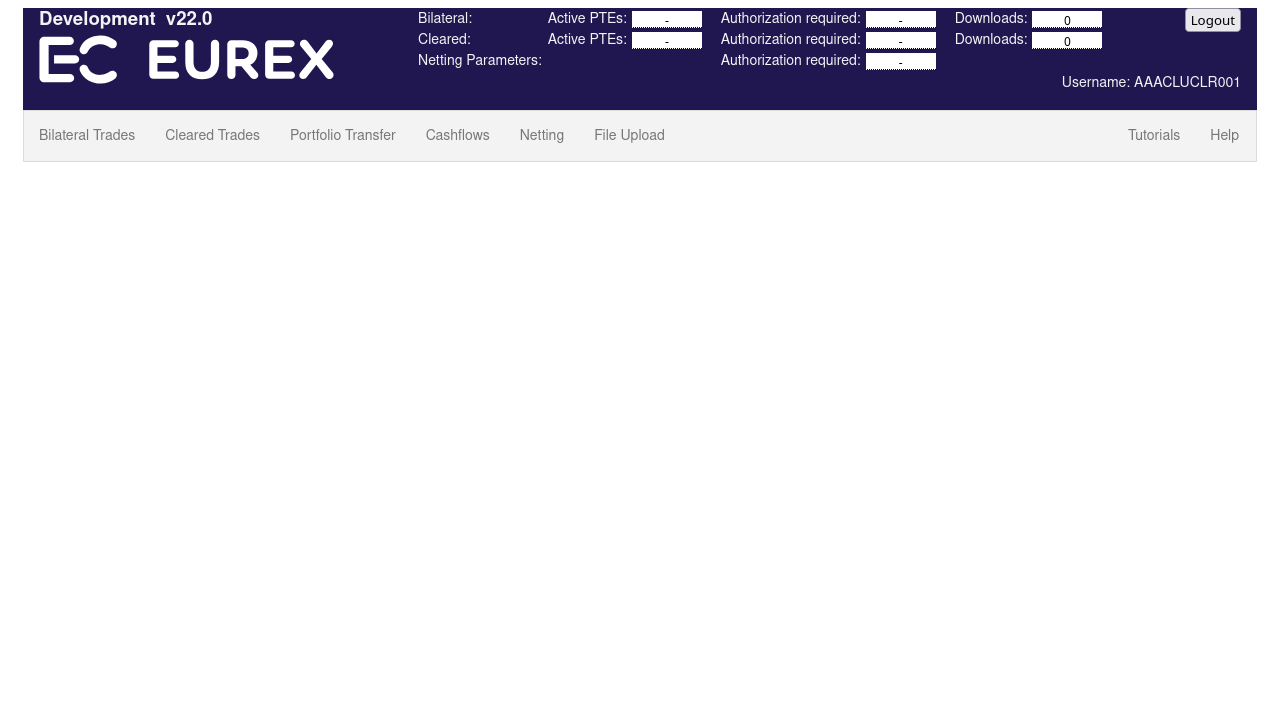
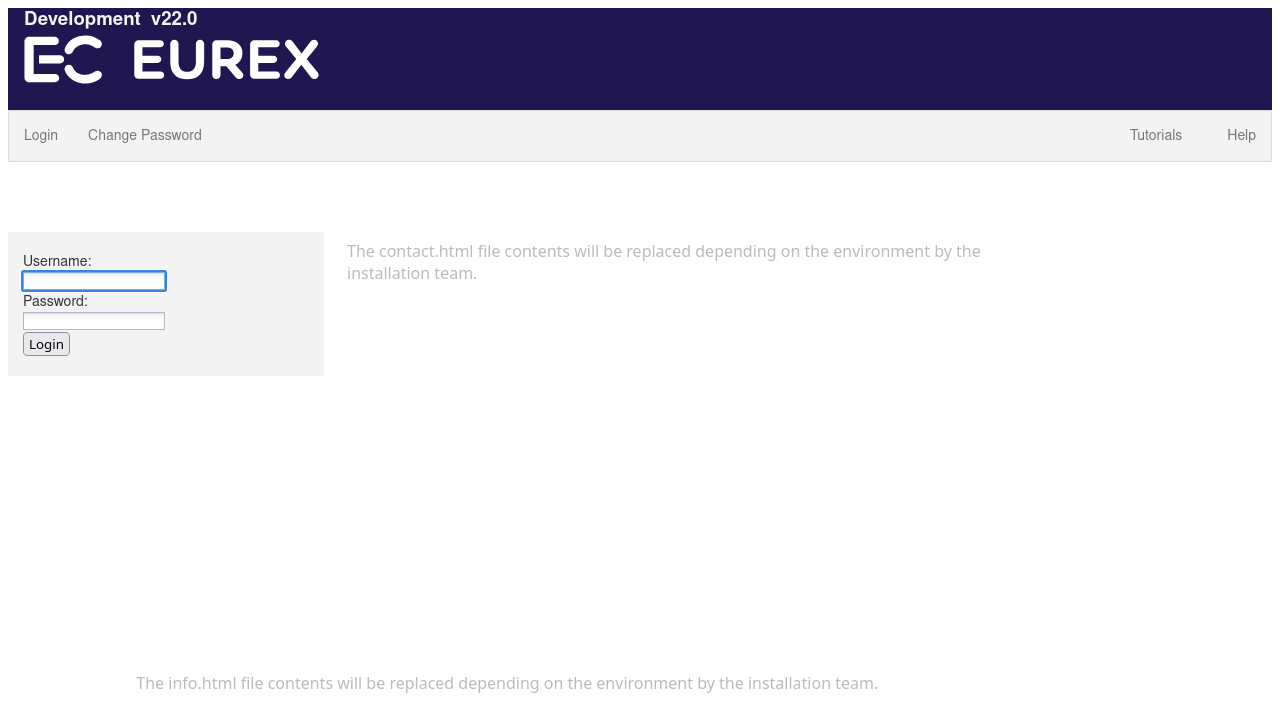
Extract reusable logout component

diff --git a/otc_gui/smoke/tc001_login_logout.py b/otc_gui/smoke/tc001_login_logout.py
@@ -2,6 +2,7 @@ import os
 from playwright.sync_api import sync_playwright
 from datetime import datetime
 from common.login import login
+from common.logout import logout
 
 # Remove proxy settings inherited from the environment
 for proxy in [
@@ -47,6 +48,10 @@ with sync_playwright() as p:
 
     try:
         login(page)
+
+        page.wait_for_timeout(10000)
+
+        logout(page)
 
         page.wait_for_timeout(10000)
 

diff --git a/common/logout.py b/common/logout.py
@@ -1,0 +1,16 @@
+from playwright.sync_api import Page
+
+from locators.otc_gui.logout_locators import (
+    LOGOUT_BUTTON
+)
+
+
+def logout(page: Page):
+
+    print("Logging out...")
+
+    page.locator(
+        LOGOUT_BUTTON
+    ).click()
+
+    print("Logout button clicked!")

diff --git a/locators/otc_gui/logout_locators.py b/locators/otc_gui/logout_locators.py
@@ -1,0 +1,1 @@
+LOGOUT_BUTTON = '//*[@id="logout"]'
